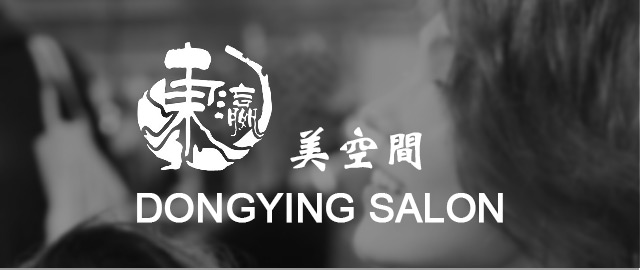
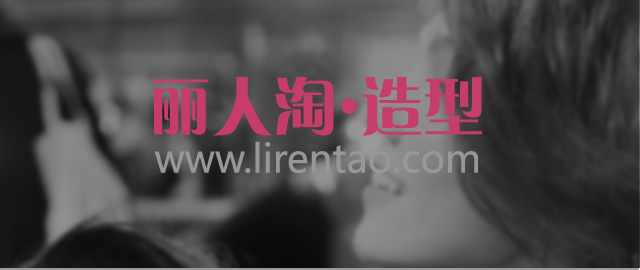
task 2106 东瀛美空间修改成丽人淘

Changed region(s): [[0.1875, 0.1481, 0.75, 0.6519], [0.1875, 0.7111, 0.8125, 0.8296], [0.6562, 0.563, 0.75, 0.6519]]

diff --git a/src/entrys/aboutUs.js b/src/entrys/aboutUs.js
@@ -14,7 +14,7 @@ new Vue({
   computed: {
     content: function () {
       if (window.systemType === 'MKJ') {
-        return ['东瀛美空间是由上海美发领导品牌东瀛造型2015年3月推出的发型师1对1服务的品牌，为顾客提供一个透明、安全、便捷、超值的美发体验空间，顾客可通过东瀛美空间微信平台完成预约支付，并且可以在线选择发型师、发型、价格、然后去附近的美空间门店享受美发服务，目前已在北京、上海繁 华商业圈开设多家门店。']
+        return ['丽人淘是由上海美发领导品牌东瀛造型2015年3月推出的发型师1对1服务的品牌，为顾客提供一个透明、安全、便捷、超值的美发体验空间，顾客可通过丽人淘微信平台完成预约支付，并且可以在线选择发型师、发型、价格、然后去附近的丽人淘门店享受美发服务，目前已在北京、上海繁 华商业圈开设多家门店。']
       } else if (window.systemType === 'DY') {
         return ['东瀛造型是一家以简约、休闲日式发型为主的专业美发沙龙，致力于研究将欧洲立体剪裁和亚洲人的柔合线条相融合，创造出适合亚洲人简洁、舒适的发型风格，重新定义了自然时尚的东方新上班族形象。公司拥有强大的国际技术团队、世界品牌产品的支持、超值的服务和个性舒适的美发空间给顾客非凡感观体验。']
       }

diff --git a/src/entrys/afterSale.js b/src/entrys/afterSale.js
@@ -15,7 +15,7 @@ new Vue({
     content: function () {
       if (window.systemType === 'MKJ') {
         return [
-          '1、东瀛美空间所使用的产品均为东瀛定制或世界知名品牌，同时配备了世界最前沿科技的美发设备，为您的头发保驾护航不受到伤害！',
+          '1、丽人淘所使用的产品均为东瀛定制或世界知名品牌，同时配备了世界最前沿科技的美发设备，为您的头发保驾护航不受到伤害！',
           '2、如果您对发型或者服务有任何的不满意，我们提供15天的无理由免费调整或者重做，对烫染需要重做的顾客，我们还将提供瞬间修护护理来保护您的头发不再受到2次伤害，为了您的方便我们还可以为您安排同一城市内的任何一家门店服务， 同时应您的要求我们可以给您更换设计师。',
           '3、您可以拨打全国统一售后电话 <a href="tel:4008207213">4008207213</a> ，客服会在第一时间为您服务并给您一个满意的回复。'
         ]

diff --git a/src/js/base.js b/src/js/base.js
@@ -2,11 +2,11 @@
 window.ctx = '../..'
 /********************************* 图片路径 ************************************/
 window.imageDomain = 'http://meimeidou.qiniudn.com/'
-/*************************** 区分东瀛和美空间 ***********************************/
-// 美空间
+/*************************** 区分东瀛和丽人淘 ***********************************/
+// 丽人淘
 window.systemType = 'MKJ'
 // 东瀛
-window.systemType = 'DY'
+// window.systemType = 'DY'
 /*************************** 页面跳转经过后台重定向 ******************************/
 // 本地
 var webOrigin = 'http://mkj001.bigaka.com/mkj'

diff --git a/src/html/dresserDetail.html b/src/html/dresserDetail.html
@@ -7,7 +7,7 @@
     <meta name="apple-mobile-web-app-capable" content="yes" />
     <meta name="apple-mobile-web-app-status-bar-style" content="black" />
     <meta name="format-detection" content="telephone=no" />
-    <meta name="apple-mobile-web-app-title" content="美空间"/>
+    <meta name="apple-mobile-web-app-title" content="丽人淘"/>
     <title>发型师详情</title>
   </head>
   <body>

diff --git a/src/html/mycoupon.html b/src/html/mycoupon.html
@@ -7,7 +7,7 @@
     <meta name="apple-mobile-web-app-capable" content="yes" />
     <meta name="apple-mobile-web-app-status-bar-style" content="black" />
     <meta name="format-detection" content="telephone=no" />
-    <meta name="apple-mobile-web-app-title" content="美空间"/>
+    <meta name="apple-mobile-web-app-title" content="丽人淘"/>
     <title>我的优惠券</title>
   </head>
   <body>

diff --git a/src/html/shopDresser.html b/src/html/shopDresser.html
@@ -7,7 +7,7 @@
     <meta name="apple-mobile-web-app-capable" content="yes" />
     <meta name="apple-mobile-web-app-status-bar-style" content="black" />
     <meta name="format-detection" content="telephone=no" />
-    <meta name="apple-mobile-web-app-title" content="美空间"/>
+    <meta name="apple-mobile-web-app-title" content="丽人淘"/>
     <title>门店发型师</title>
   </head>
   <body>

diff --git a/src/html/collection.html b/src/html/collection.html
@@ -7,7 +7,7 @@
     <meta name="apple-mobile-web-app-capable" content="yes" />
     <meta name="apple-mobile-web-app-status-bar-style" content="black" />
     <meta name="format-detection" content="telephone=no" />
-    <meta name="apple-mobile-web-app-title" content="美空间"/>
+    <meta name="apple-mobile-web-app-title" content="丽人淘"/>
     <title>我的收藏</title>
   </head>
   <body>

diff --git a/src/html/couponStore.html b/src/html/couponStore.html
@@ -7,7 +7,7 @@
     <meta name="apple-mobile-web-app-capable" content="yes" />
     <meta name="apple-mobile-web-app-status-bar-style" content="black" />
     <meta name="format-detection" content="telephone=no" />
-    <meta name="apple-mobile-web-app-title" content="美空间"/>
+    <meta name="apple-mobile-web-app-title" content="丽人淘"/>
     <title>优惠专区</title>
   </head>
   <body>

diff --git a/src/html/evaluationList.html b/src/html/evaluationList.html
@@ -7,7 +7,7 @@
     <meta name="apple-mobile-web-app-capable" content="yes" />
     <meta name="apple-mobile-web-app-status-bar-style" content="black" />
     <meta name="format-detection" content="telephone=no" />
-    <meta name="apple-mobile-web-app-title" content="美空间"/>
+    <meta name="apple-mobile-web-app-title" content="丽人淘"/>
     <title>评论列表</title>
   </head>
   <body>

diff --git a/src/html/findpwd.html b/src/html/findpwd.html
@@ -7,7 +7,7 @@
     <meta name="apple-mobile-web-app-capable" content="yes" />
     <meta name="apple-mobile-web-app-status-bar-style" content="black" />
     <meta name="format-detection" content="telephone=no" />
-    <meta name="apple-mobile-web-app-title" content="美空间"/>
+    <meta name="apple-mobile-web-app-title" content="丽人淘"/>
     <title>找回密码</title>
   </head>
   <body>

diff --git a/src/html/hairDetail.html b/src/html/hairDetail.html
@@ -7,7 +7,7 @@
     <meta name="apple-mobile-web-app-capable" content="yes" />
     <meta name="apple-mobile-web-app-status-bar-style" content="black" />
     <meta name="format-detection" content="telephone=no" />
-    <meta name="apple-mobile-web-app-title" content="美空间"/>
+    <meta name="apple-mobile-web-app-title" content="丽人淘"/>
     <title>作品详情</title>
   </head>
   <body>

diff --git a/src/html/hairlist.html b/src/html/hairlist.html
@@ -7,7 +7,7 @@
     <meta name="apple-mobile-web-app-capable" content="yes" />
     <meta name="apple-mobile-web-app-status-bar-style" content="black" />
     <meta name="format-detection" content="telephone=no" />
-    <meta name="apple-mobile-web-app-title" content="美空间"/>
+    <meta name="apple-mobile-web-app-title" content="丽人淘"/>
     <title>发型作品</title>
   </head>
   <body>
